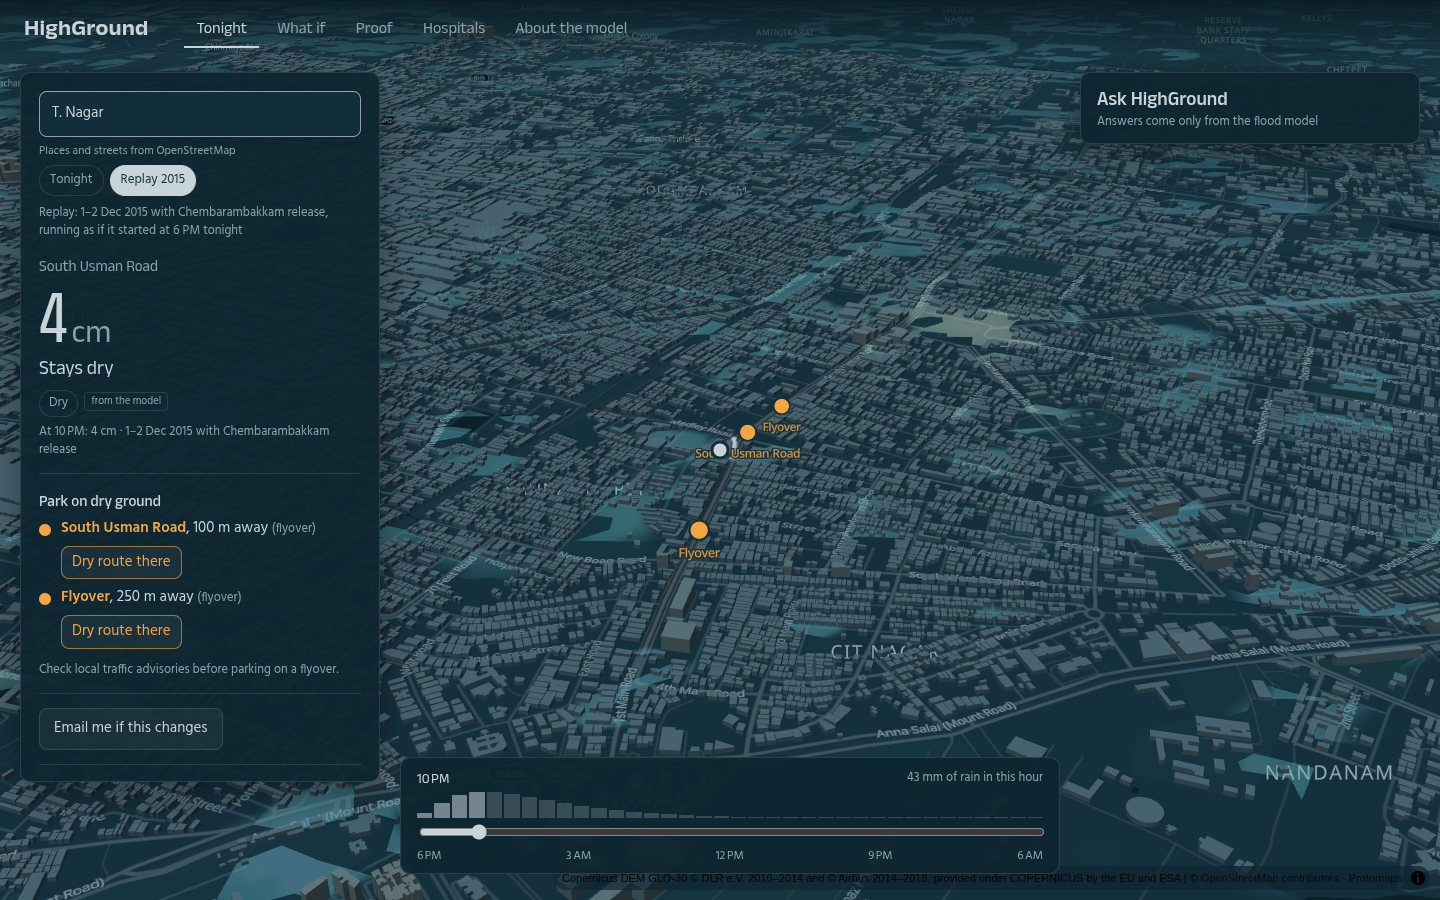
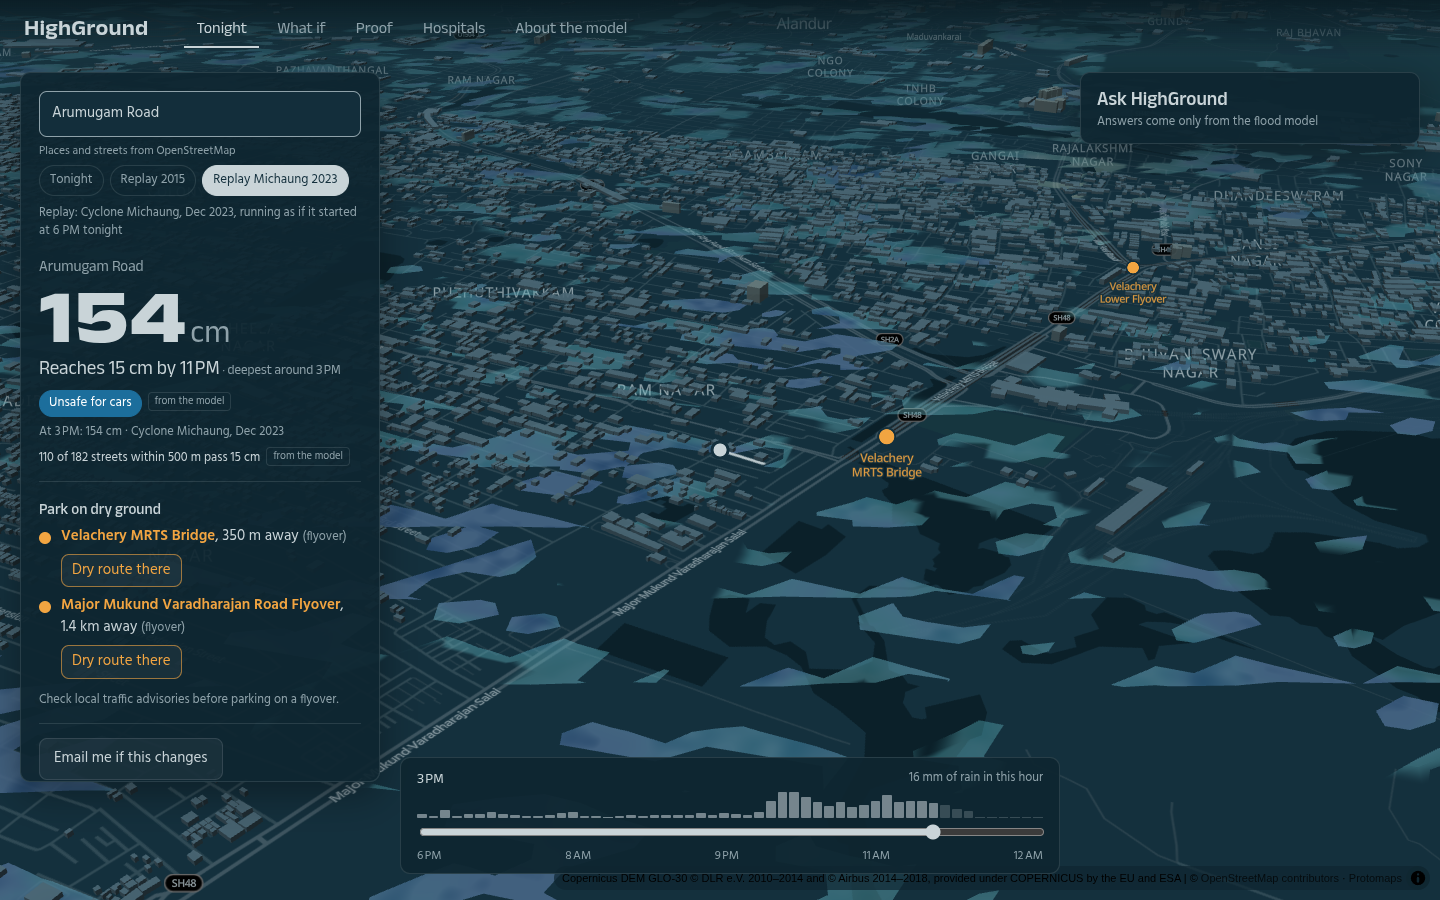
UI: nearby-street flood share, weekday labels for multi-day storms, parking dedupe, bolder water

diff --git a/web/src/screens/Tonight.tsx b/web/src/screens/Tonight.tsx
@@ -108,7 +108,8 @@ export default function Tonight({ mv, runs, current, scenario, replayRun, setRep
     const dom = [...scenario.mix].sort((a, b) => b.w - a.w)[0].run
     const flags = parking.dry[dom] ?? []
     const opts = parking.candidates.map((c, i) => ({ ...c, d: distM(place.lon, place.lat, c.lon, c.lat), ok: flags[i] === 1 }))
-      .filter((c) => c.ok).sort((a, b) => a.d - b.d).slice(0, 3)
+      .filter((c) => c.ok).sort((a, b) => a.d - b.d)
+      .filter((c, i, arr) => arr.findIndex((o) => o.name === c.name) === i).slice(0, 3)
     setPark(opts)
     mv.setGeoJSON('parking', { type: 'FeatureCollection', features: opts.map((o) => ({ type: 'Feature', properties: { name: o.name }, geometry: { type: 'Point', coordinates: [o.lon, o.lat] } })) })
     setRoute(null)

diff --git a/web/src/lib/scenario.ts b/web/src/lib/scenario.ts
@@ -67,9 +67,10 @@ export function whatIf(mm: number, tide: 'mean' | 'high', runs: Runs): Scenario 
   }
 }
 
-export function clockLabel(start: Date, hours: number): string {
+export function clockLabel(start: Date, hours: number, withDay = hours >= 18): string {
   const t = new Date(start.getTime() + hours * 3600_000)
-  return t.toLocaleTimeString('en-IN', { hour: 'numeric', hour12: true }).replace(' ', ' ').toUpperCase()
+  const time = t.toLocaleTimeString('en-IN', { hour: 'numeric', hour12: true }).replace(' ', '\u202f').toUpperCase()
+  return withDay ? `${t.toLocaleDateString('en-IN', { weekday: 'short' })} ${time}` : time
 }
 
 export function mixDescription(mix: MixPart[], runs: Runs): string {

diff --git a/web/src/ui/Timeline.tsx b/web/src/ui/Timeline.tsx
@@ -23,7 +23,7 @@ export default function Timeline({ scenario, runs, hour, setHour }: {
       </div>
       <input type="range" min={1} max={hours} step={1} value={hour} onChange={(e) => setHour(Number(e.target.value))}
         aria-label="Hour of the storm" />
-      <div className="ticks">{ticks.map((t) => <span key={t}>{clockLabel(scenario.start, t)}</span>)}</div>
+      <div className="ticks">{ticks.map((t) => <span key={t}>{clockLabel(scenario.start, t, hours > 24)}</span>)}</div>
     </div>
   )
 }

diff --git a/web/src/water/shaders.ts b/web/src/water/shaders.ts
@@ -69,7 +69,8 @@ void main() {
   }
   col += amber * glint * 0.55;
   float edge = smoothstep(0.04, 0.15, vDepth);
-  float a = opacity * edge * (0.38 + 0.5 * t);
+  float a = opacity * edge * (0.5 + 0.42 * t);
+  col *= 1.12;
   gl_FragColor = vec4(col * a, a);  // premultiplied
 }
 `

diff --git a/PROGRESS.md b/PROGRESS.md
@@ -151,3 +151,9 @@ Decision rule, fixed before results: adopt a variant only if the calibration-hal
 - **Agreement:** 92.8% of 45,907 land cells agree on ≥15 cm; CSI 0.78; depth correlation 0.90; median |Δdepth| 0.7 cm; wet share 28.4% (ANUGA) vs 30.6% (Stage A).
 - `review/p2/anuga_vs_fast.png`: side-by-side peak depth. Included in `proof.json` → Proof screen.
 - Caveat for the Proof screen: same 30 m terrain, so this checks the numerics, not the terrain.
+
+### Initial-condition fix, full rerun (Fri 11:05–11:14 IST)
+
+- Found while picking demo streets: in every scenario, ~17,700 land cells (2% of the city) were already ≥15 cm when the storm started, e.g. streets around Velachery Lake at ~150 cm with time-to-15 cm of 0. Cause: channels started full to the **sink-filled spill level**, which in raised pit reaches sits up to 0.5 m+ above the measured water surface, so water spilled onto adjacent land during the 2 h spin-up.
+- Fix: channels start at their **measured water surface** (`clip(DTM − bed, 0, burn depth)`), in both Stage A and ANUGA. A 1 h check of the 50 mm storm leaves 6,205 wet land cells (0.7%), mostly Pallikaranai marsh holding ~22 cm and low land beside channels, which is realistic for the monsoon.
+- All v1 outputs archived in `data/out/runs_v1/` (calibration, runs, ANUGA 92.8% agreement on the v1 setup). Calibration, the 16 runs and ANUGA restarted at 11:14 IST; expected done ~16:30.
